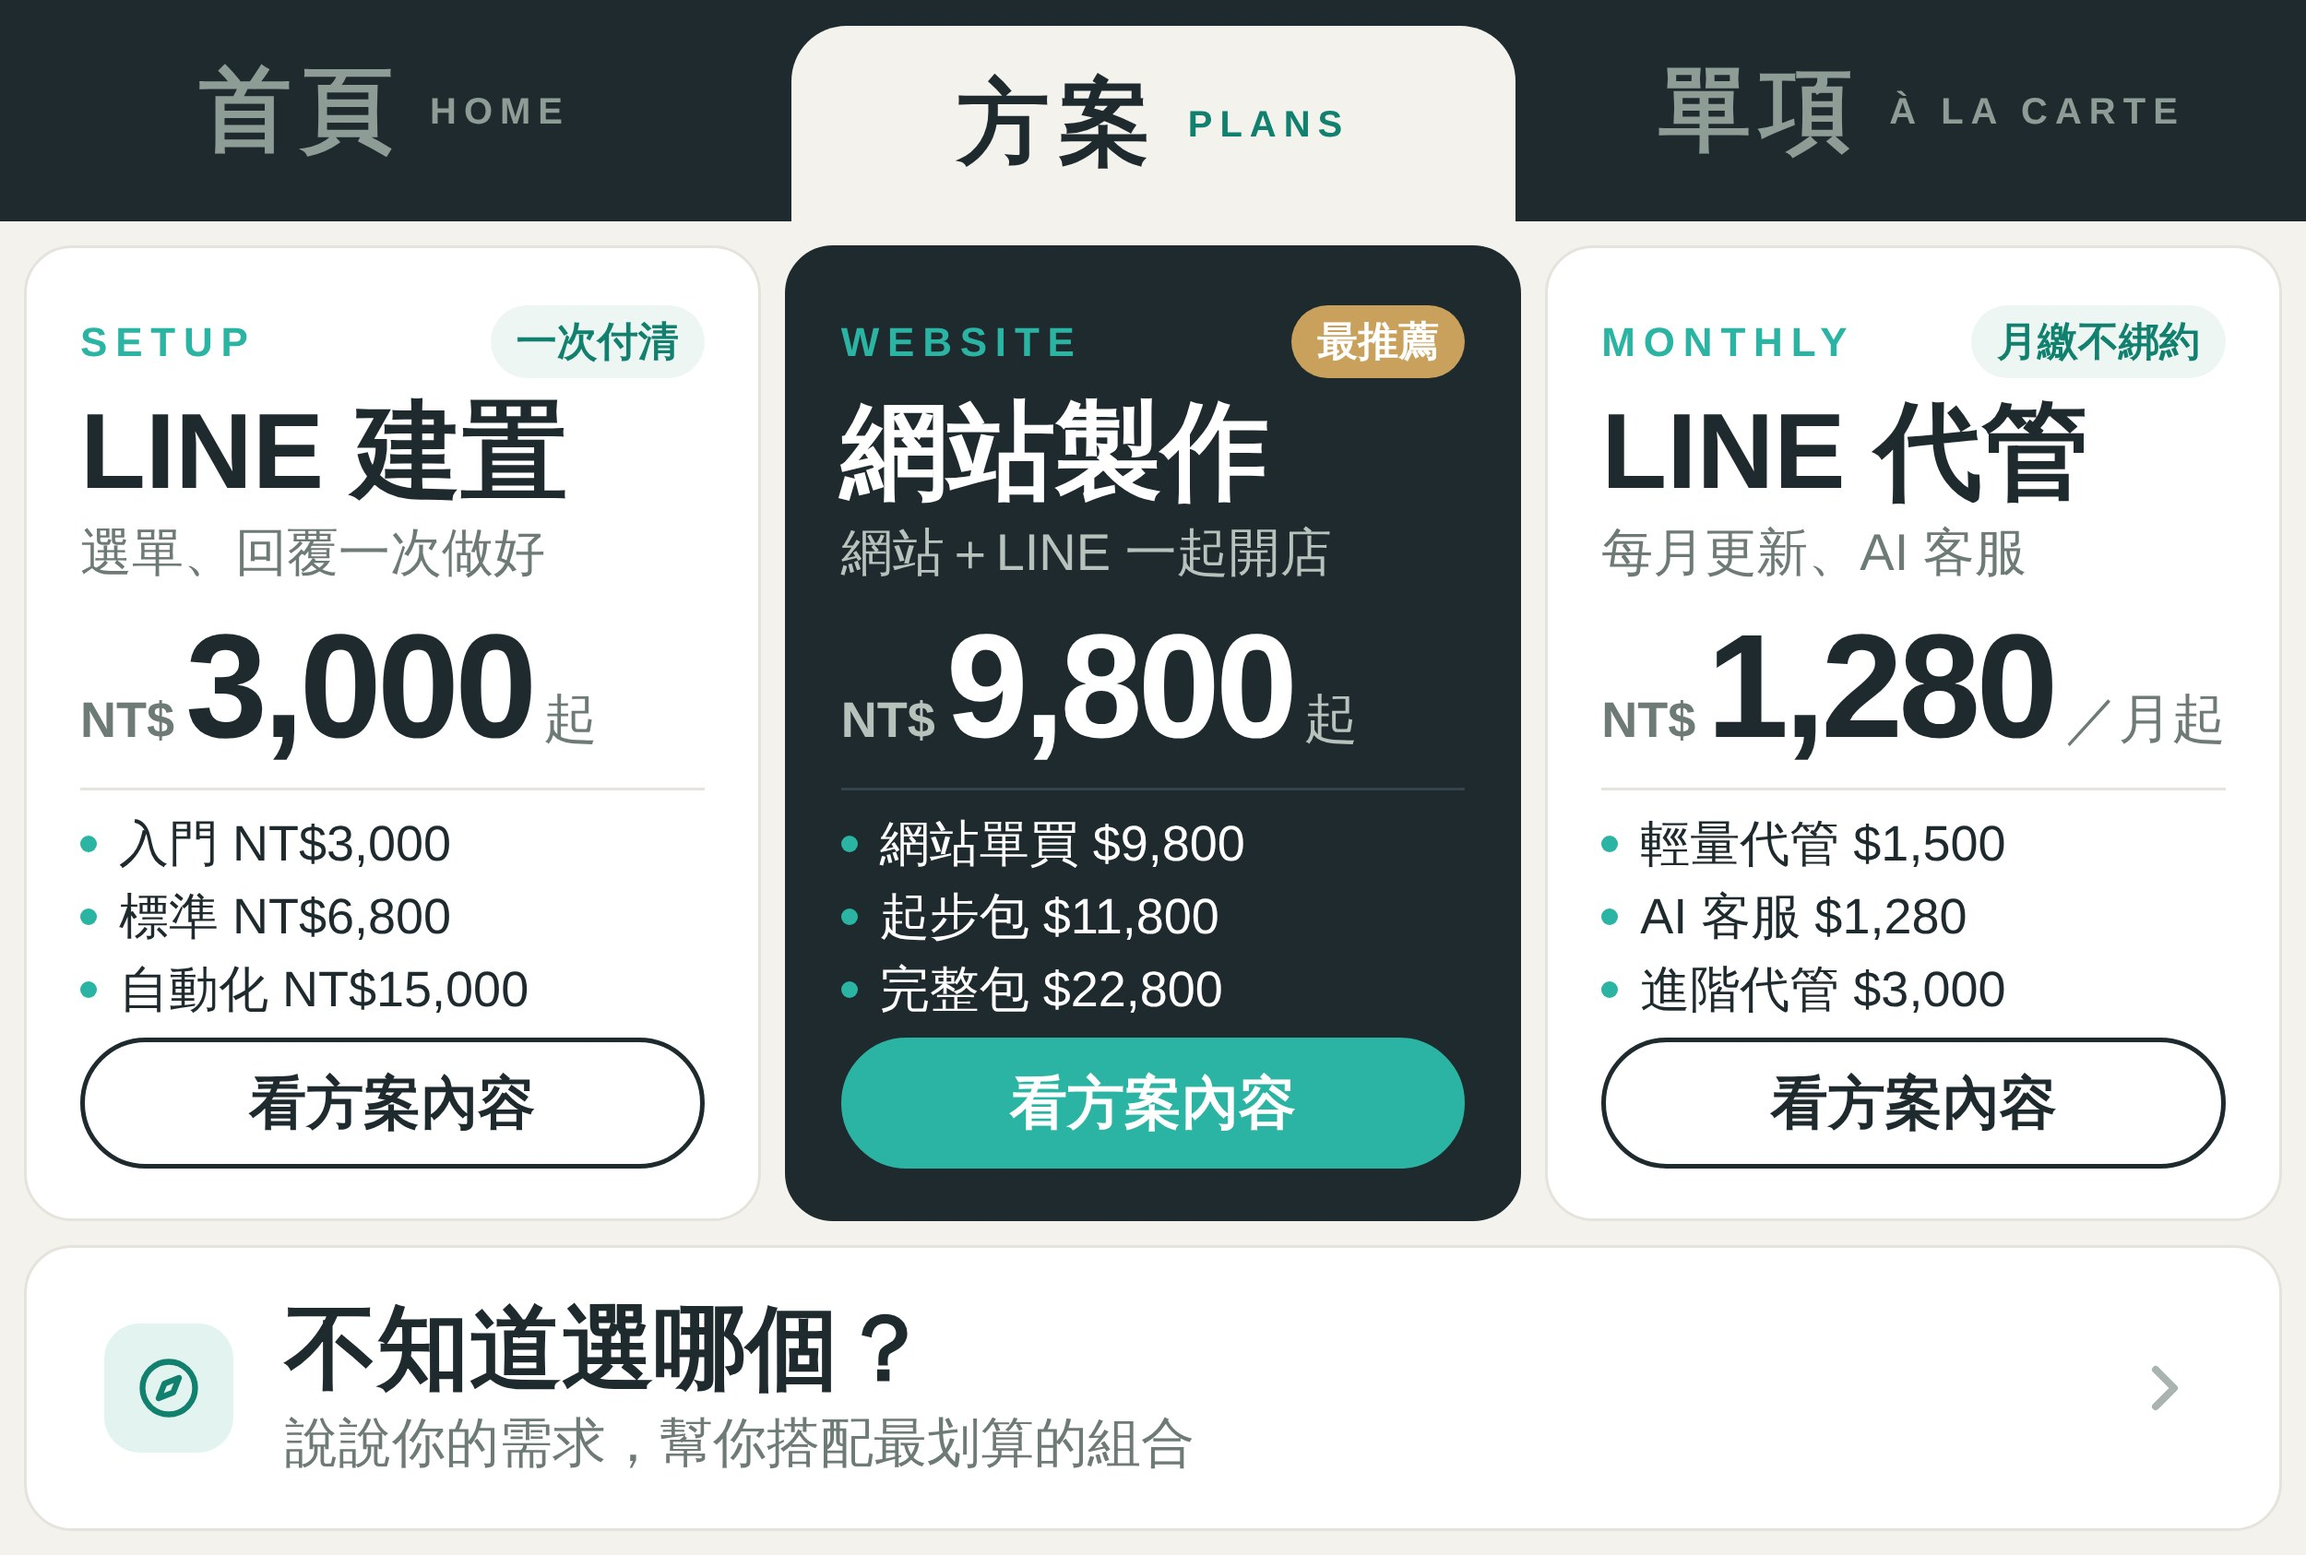
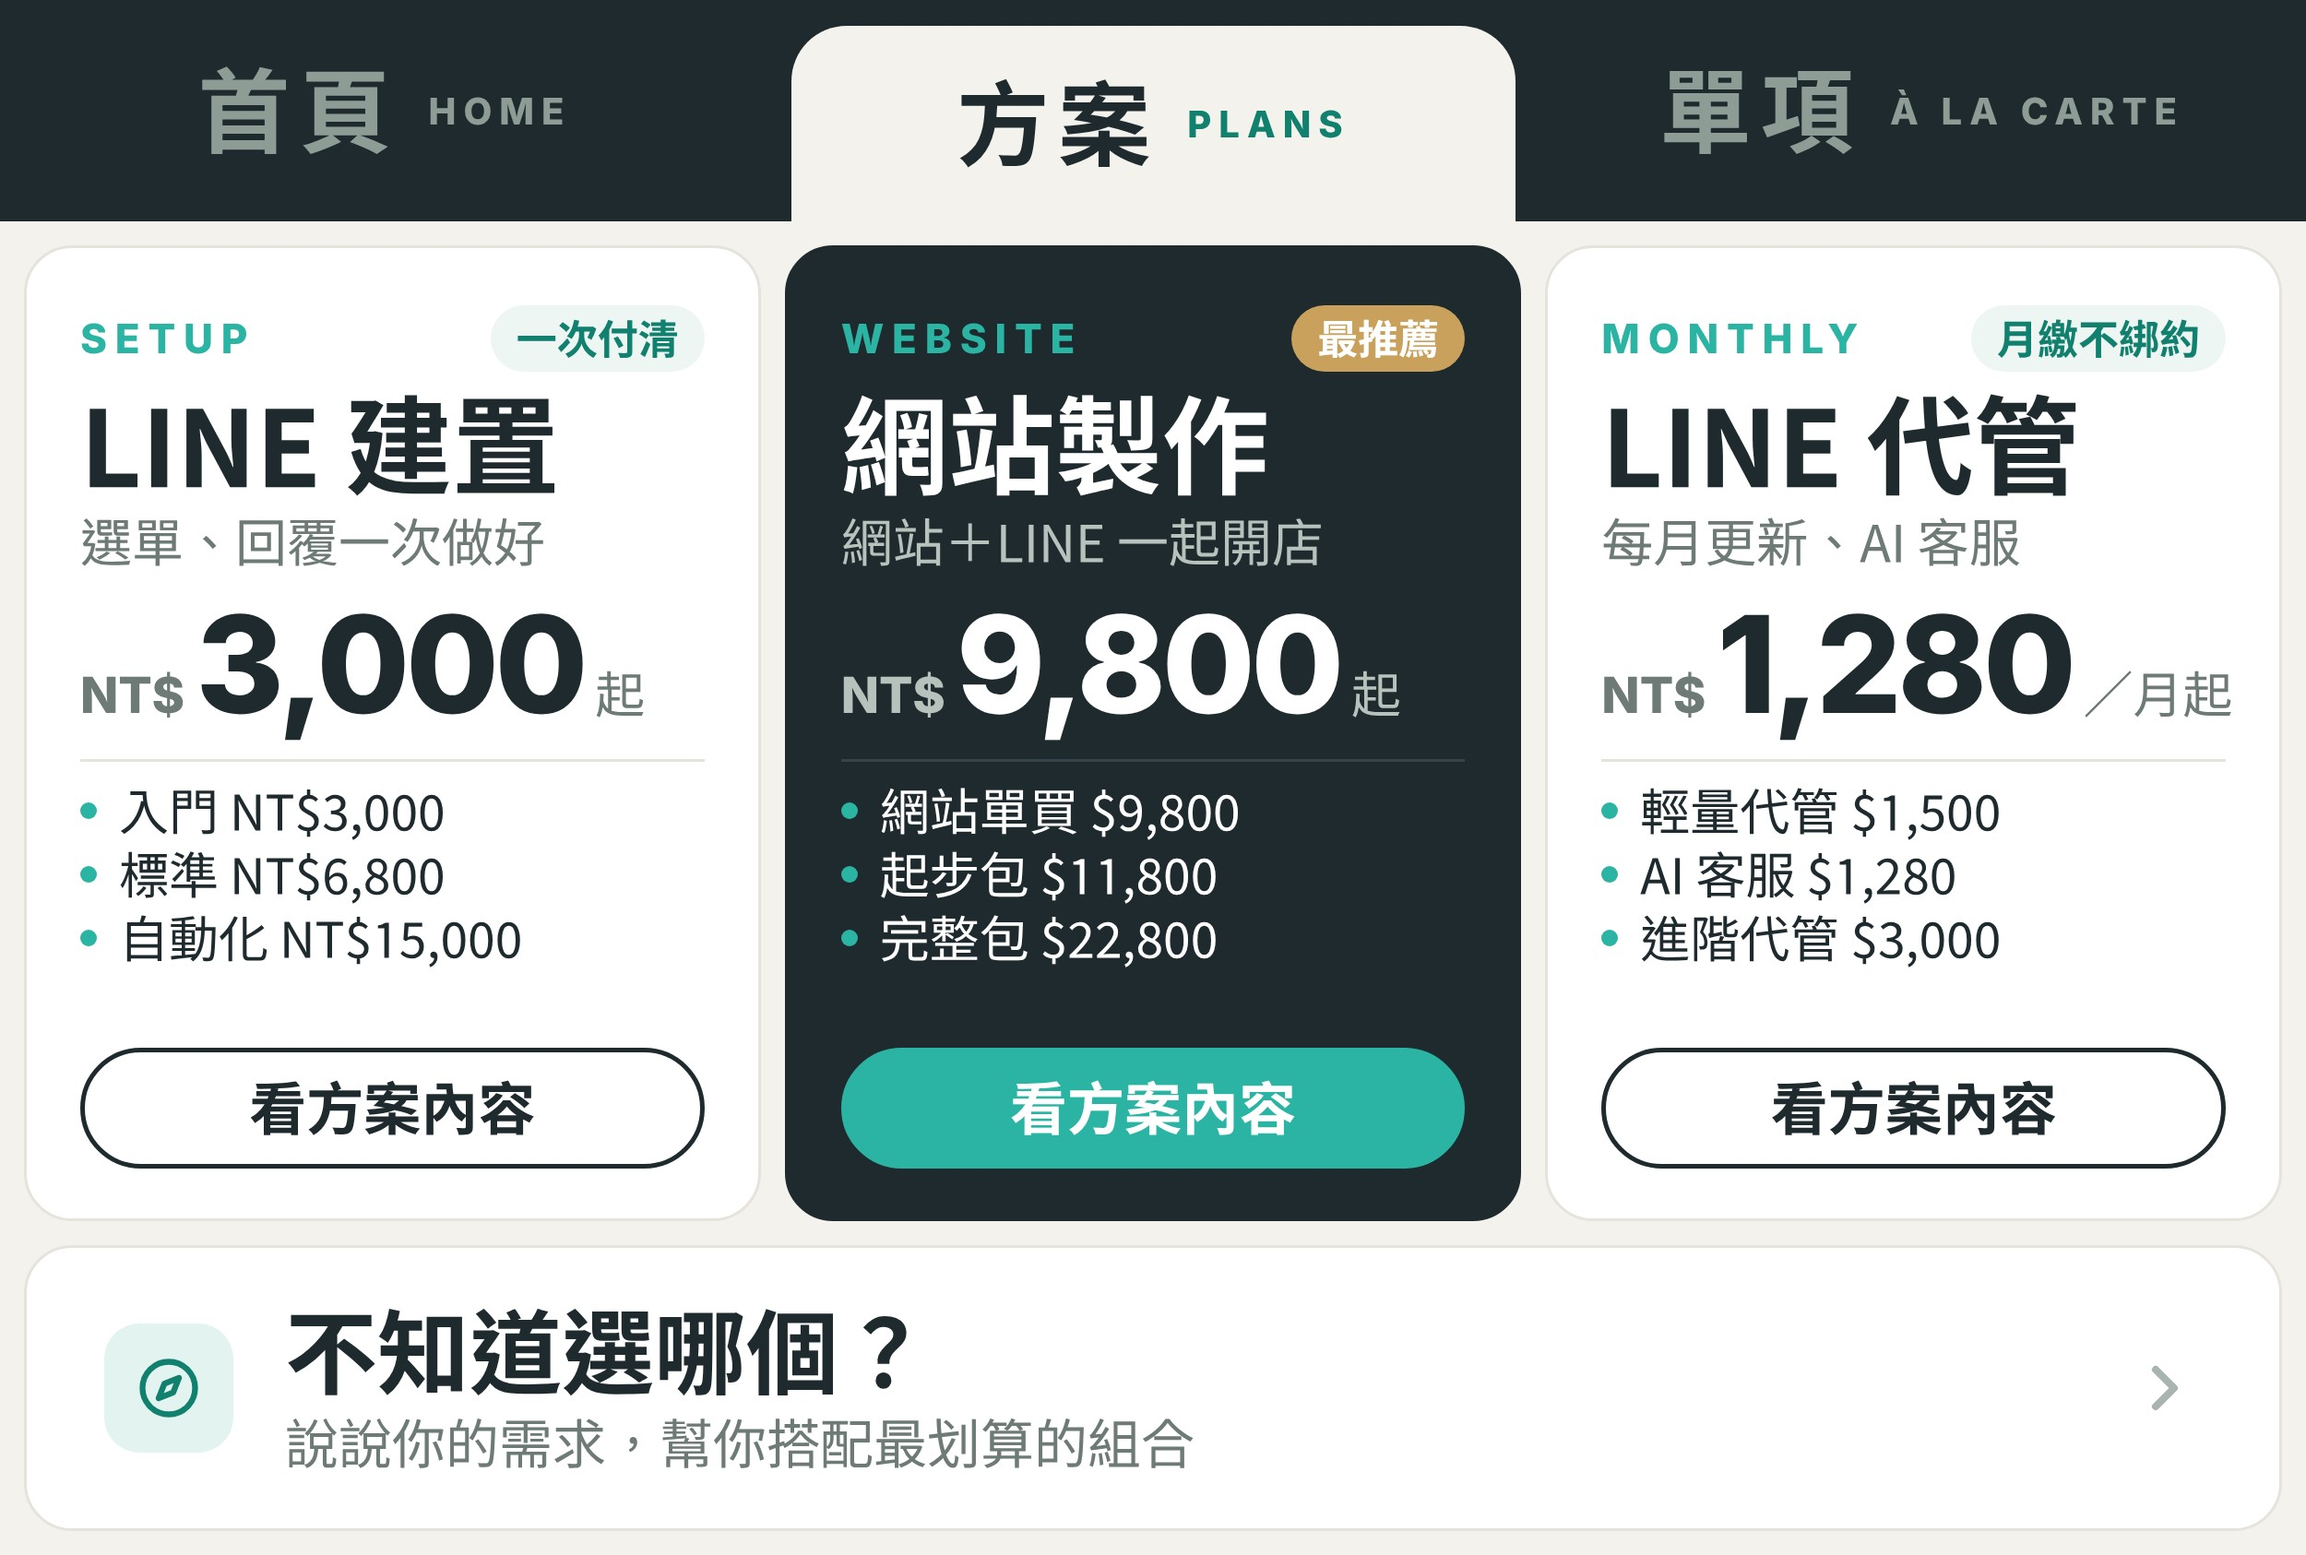
LINE 選單改用昭源黑體，修正字體沒有載入的問題 (#22)
Claude-Session: https://claude.ai/code/session_01Jv5xToDH4eLrV48W92rnBD

diff --git a/line-bot/richmenu/v6/home.html b/line-bot/richmenu/v6/home.html
@@ -8,7 +8,7 @@
 .big .icon { width: 160px; height: 160px; border-radius: 44px; }
 .big .icon svg { width: 88px; height: 88px; }
 .big .eyebrow { margin-top: auto; font-size: 46px; }
-.big h1 { font-size: 128px; font-weight: 900; line-height: 1.18; margin-top: 18px; letter-spacing: .01em; white-space: nowrap; }
+.big h1 { font-size: 128px; font-weight: 700; line-height: 1.18; margin-top: 18px; letter-spacing: .01em; white-space: nowrap; }
 .big p { font-size: 58px; line-height: 1.55; margin-top: 24px; }
 .reply { font-size: 54px; margin-top: 26px; display: flex; align-items: center; gap: 16px; white-space: nowrap; }
 .reply svg { width: 54px; height: 54px; fill: none; stroke: currentColor; stroke-width: 2; stroke-linecap: round; }
@@ -18,20 +18,20 @@
 .foot2 .cur { font-family: "Inter", sans-serif; font-weight: 800; font-size: 50px; color: #B7C2BD; }
 .foot2 b { font-family: "Inter", sans-serif; font-weight: 800; font-size: 112px; letter-spacing: -.03em; line-height: 1; }
 .foot2 .muted { font-size: 54px; }
-.go { align-self: flex-start; background: #2BB3A3; color: #FFFFFF; font-size: 60px; font-weight: 900; padding: 26px 56px; border-radius: 999px; white-space: nowrap; }
+.go { align-self: flex-start; background: #2BB3A3; color: #FFFFFF; font-size: 60px; font-weight: 700; padding: 26px 56px; border-radius: 999px; white-space: nowrap; }
 
 /* 網站製作：右上寬卡，暖金色重點 */
 .web { grid-column: 2 / 5; padding: 76px 70px 76px 80px; display: flex; gap: 50px; background: linear-gradient(135deg, #FFFDF8, #F7EFE1); border-color: #E9DCC3; }
 .web .txt { flex: 1; display: flex; flex-direction: column; }
 .web .eyebrow { color: #B7863A; font-size: 44px; }
-.web h2 { font-size: 132px; font-weight: 900; line-height: 1.08; margin-top: 18px; }
+.web h2 { font-size: 132px; font-weight: 700; line-height: 1.08; margin-top: 18px; }
 .web p { font-size: 58px; margin-top: 18px; }
 .web .tag { margin-top: auto; display: flex; align-items: baseline; gap: 12px; white-space: nowrap; }
 .web .tag .cur { font-family: "Inter", sans-serif; font-weight: 800; font-size: 50px; color: #8C7A5C; }
 .web .tag b { font-family: "Inter", sans-serif; font-weight: 800; font-size: 136px; letter-spacing: -.03em; line-height: 1; color: #1F2A2E; }
 .web .tag span { font-size: 54px; color: #8C7A5C; }
-.web .more { align-self: flex-start; margin-top: 30px; font-size: 52px; font-weight: 900; color: #FFFFFF; background: #C29A55; padding: 16px 40px; border-radius: 999px; }
-.web .tag i { font-style: normal; margin-left: 26px; font-size: 52px; font-weight: 900; color: #FFFFFF; background: #C29A55; padding: 14px 34px; border-radius: 999px; align-self: center; }
+.web .more { align-self: flex-start; margin-top: 30px; font-size: 52px; font-weight: 700; color: #FFFFFF; background: #C29A55; padding: 16px 40px; border-radius: 999px; }
+.web .tag i { font-style: normal; margin-left: 26px; font-size: 52px; font-weight: 700; color: #FFFFFF; background: #C29A55; padding: 14px 34px; border-radius: 999px; align-self: center; }
 .mock { width: 420px; flex: none; align-self: center; border-radius: 26px; background: #FFFFFF; box-shadow: 0 30px 60px -24px rgba(90,64,20,.35), 0 0 0 3px #EADFC9; overflow: hidden; transform: rotate(-3deg); }
 .mock .bar { height: 44px; background: #1F2A2E; display: flex; align-items: center; gap: 12px; padding: 0 20px; }
 .mock .bar i { width: 14px; height: 14px; border-radius: 50%; background: #56666C; }
@@ -46,7 +46,7 @@
 .small { display: flex; flex-direction: column; align-items: center; justify-content: center; text-align: center; padding: 0 20px; }
 .small .icon { width: 118px; height: 118px; border-radius: 34px; }
 .small .icon svg { width: 64px; height: 64px; }
-.small h2 { font-size: 78px; font-weight: 900; line-height: 1.1; margin-top: 30px; }
+.small h2 { font-size: 78px; font-weight: 700; line-height: 1.1; margin-top: 30px; }
 .small p { font-size: 46px; margin-top: 12px; }
 .small.hot { background: #2BB3A3; border-color: #2BB3A3; color: #FFFFFF; }
 .small.hot .icon { background: rgba(255,255,255,.2); color: #FFFFFF; }

diff --git a/line-bot/richmenu/v6/plan.html b/line-bot/richmenu/v6/plan.html
@@ -5,22 +5,22 @@
 .top { display: flex; align-items: center; justify-content: space-between; }
 .badge.soft { background: #EEF6F3; color: #12806F; }
 .dark .badge.soft { background: rgba(255,255,255,.1); color: #BFEDE3; }
-.badge { background: #C9A15C; color: #FFFFFF; font-size: 44px; font-weight: 900; padding: 10px 28px; border-radius: 999px; }
-.p h2 { font-size: 116px; font-weight: 900; line-height: 1.1; margin-top: 16px; }
+.badge { background: #C9A15C; color: #FFFFFF; font-size: 44px; font-weight: 700; padding: 10px 28px; border-radius: 999px; }
+.p h2 { font-size: 116px; font-weight: 700; line-height: 1.1; margin-top: 16px; }
 .p .sub { font-size: 56px; margin-top: 8px; white-space: nowrap; }
 .price { display: flex; align-items: baseline; gap: 12px; margin-top: 26px; white-space: nowrap; }
 .price .cur { font-family: "Inter", sans-serif; font-weight: 800; font-size: 54px; color: #6E7A75; }
 .dark .price .cur { color: #B7C2BD; }
-.price b { font-family: "Inter", sans-serif; font-weight: 800; font-size: 160px; letter-spacing: -.03em; line-height: 1; }
-.price .unit { font-size: 58px; }
+.price b { font-family: "Inter", sans-serif; font-weight: 800; font-size: 146px; letter-spacing: -.03em; line-height: 1; }
+.price .unit { font-size: 54px; }
 .p .rule { margin: 30px 0 22px; }
 .p ul { list-style: none; padding: 0; display: flex; flex-direction: column; gap: 6px; font-size: 54px; white-space: nowrap; }
 .p li { display: flex; align-items: center; gap: 24px; }
 .p li::before { content: ""; width: 18px; height: 18px; border-radius: 50%; background: #2BB3A3; flex: none; }
-.btn { margin-top: auto; text-align: center; font-size: 62px; font-weight: 900; padding: 24px 0; border-radius: 999px; border: 5px solid #1F2A2E; }
+.btn { margin-top: auto; text-align: center; font-size: 62px; font-weight: 700; padding: 24px 0; border-radius: 999px; border: 5px solid #1F2A2E; }
 .dark .btn { background: #2BB3A3; border-color: #2BB3A3; color: #FFFFFF; }
 .bar { grid-column: 1 / 4; display: flex; align-items: center; gap: 56px; padding: 0 84px; }
-.bar h3 { font-size: 100px; font-weight: 900; line-height: 1.1; }
+.bar h3 { font-size: 100px; font-weight: 700; line-height: 1.1; }
 .bar p { font-size: 58px; margin-top: 10px; }
 .bar .chev { position: static; margin-left: auto; width: 80px; height: 80px; }
 </style></head><body>

diff --git a/line-bot/richmenu/v6/item.html b/line-bot/richmenu/v6/item.html
@@ -5,15 +5,15 @@
 .row { display: flex; align-items: center; gap: 36px; }
 .it .icon { width: 120px; height: 120px; border-radius: 34px; }
 .it .icon svg { width: 66px; height: 66px; }
-.it h2 { font-size: 100px; font-weight: 900; line-height: 1; }
+.it h2 { font-size: 100px; font-weight: 700; line-height: 1; }
 .it .sub { font-size: 54px; margin-top: 26px; }
 .it .rule { margin: auto 0 26px; }
 .it .pr { display: flex; align-items: baseline; justify-content: space-between; }
-.it .pr b { font-family: "Inter", "Noto Sans TC", sans-serif; font-size: 80px; font-weight: 800; color: #12806F; letter-spacing: -.01em; }
-.it .pr b small { font-family: "Noto Sans TC", sans-serif; font-size: 54px; font-weight: 700; }
+.it .pr b { font-family: "Inter", "Chiron Hei HK", sans-serif; font-size: 80px; font-weight: 800; color: #12806F; letter-spacing: -.01em; }
+.it .pr b small { font-family: "Chiron Hei HK", sans-serif; font-size: 54px; font-weight: 700; }
 .it .pr span { font-size: 46px; color: #A9B3AF; }
 .bar { grid-column: 1 / 4; display: flex; align-items: center; gap: 56px; padding: 0 84px; }
-.bar h3 { font-size: 100px; font-weight: 900; line-height: 1.1; }
+.bar h3 { font-size: 100px; font-weight: 700; line-height: 1.1; }
 .bar p { font-size: 58px; margin-top: 10px; }
 .bar .chev { position: static; margin-left: auto; width: 80px; height: 80px; color: #2BB3A3; }
 </style></head><body>

diff --git a/line-bot/richmenu/v6/base.css b/line-bot/richmenu/v6/base.css
@@ -1,11 +1,12 @@
 /* Rowan Studio 三頁籤選單 v6（2500×1686）：沿用 v4 設計，字級放大約 1.4 倍。按鈕位置與 v4 相同 */
+/* 字體：中文「昭源黑體 Chiron Hei HK」（400／700），英文與數字「Inter」（800）。輸出圖片前需先載入這兩套字體 */
 * { box-sizing: border-box; margin: 0; }
 html, body { width: 2500px; height: 1686px; overflow: hidden; }
-body { font-family: "Noto Sans TC", sans-serif; background: #F4F2ED; color: #1F2A2E; }
-.en { font-family: "Inter", "Noto Sans TC", sans-serif; }
+body { font-family: "Chiron Hei HK", "Noto Sans TC", sans-serif; background: #F4F2ED; color: #1F2A2E; }
+.en { font-family: "Inter", "Chiron Hei HK", sans-serif; }
 .tabs { height: 240px; background: #1F2A2E; display: grid; grid-template-columns: 834px 833px 833px; }
 .tab { display: flex; align-items: center; justify-content: center; gap: 30px; color: #8E9C96; }
-.tab b { font-size: 100px; font-weight: 900; letter-spacing: .1em; }
+.tab b { font-size: 100px; font-weight: 700; letter-spacing: .1em; }
 .tab i { font-style: normal; font-family: "Inter", sans-serif; font-weight: 800; font-size: 40px; letter-spacing: .2em; }
 .tab.on { background: #F4F2ED; color: #1F2A2E; border-radius: 60px 60px 0 0; margin: 28px 24px 0; }
 .tab.on i { color: #12806F; }

diff --git a/line-bot/README.md b/line-bot/README.md
@@ -12,7 +12,8 @@ LINE 官方帳號 `@041yyclq` 的自動回覆機器人，跑在 Cloudflare Worke
 
 ## 目前使用的圖文選單
 正式選單是 **v6 三頁籤**（首頁／方案／單項），檔案在 `richmenu/v6/`：
-- `home.html`、`plan.html`、`item.html`：設計稿，輸出成同名 `.jpg`（2500×1686）
+- `home.html`、`plan.html`、`item.html`：設計稿，用 `node line-bot/richmenu/v6/render.mjs` 輸出成同名 `.jpg`（2500×1686）
+- 字體：中文「昭源黑體 Chiron Hei HK」、數字與英文「Inter」
 - `home.json`、`plan.json`、`item.json`：按鈕位置與送出的文字；頁籤用別名 `tab-home`／`tab-plan`／`tab-item` 切換，預設顯示 `tab-home`
 - 首頁：LINE 官方帳號服務（左大格）、網站製作（右上）、作品範例／免費諮詢／常見問題
 - 方案：LINE 建置／網站製作／LINE 代管＋幫我推薦方案
